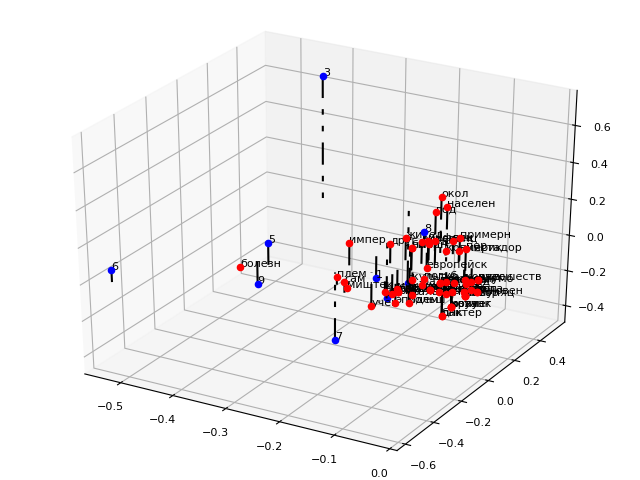
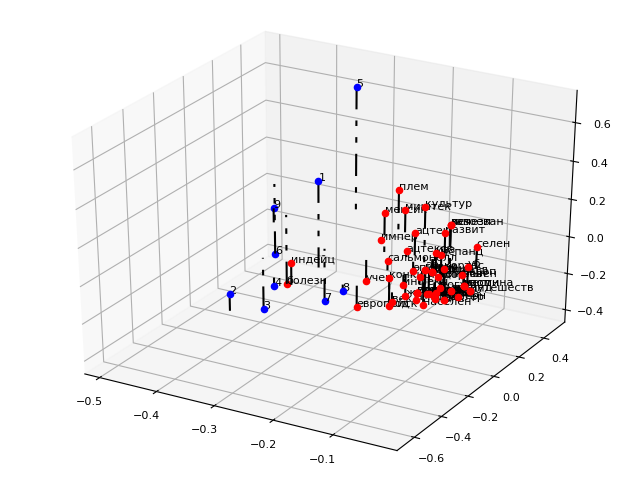
Добавлены новые стоп-слова и снижено количество критериев для формирования тематического множества (было 5, стало 3).

diff --git a/LSA.py b/LSA.py
@@ -132,7 +132,7 @@ www = []
 while index <= statistics.__len__():
     end = sorted(statistics[index].items(), key=l, reverse=True)
     print(index, end[:5])      # Из всех значений термов для каждого документа оставим 5 наиболее длизких по расстоянию
-    end_word_list = dict(end[:5])   # И выведем их
+    end_word_list = dict(end[:3])   # И выведем их
     www.append(list(end_word_list.keys()))
     index += 1
 
